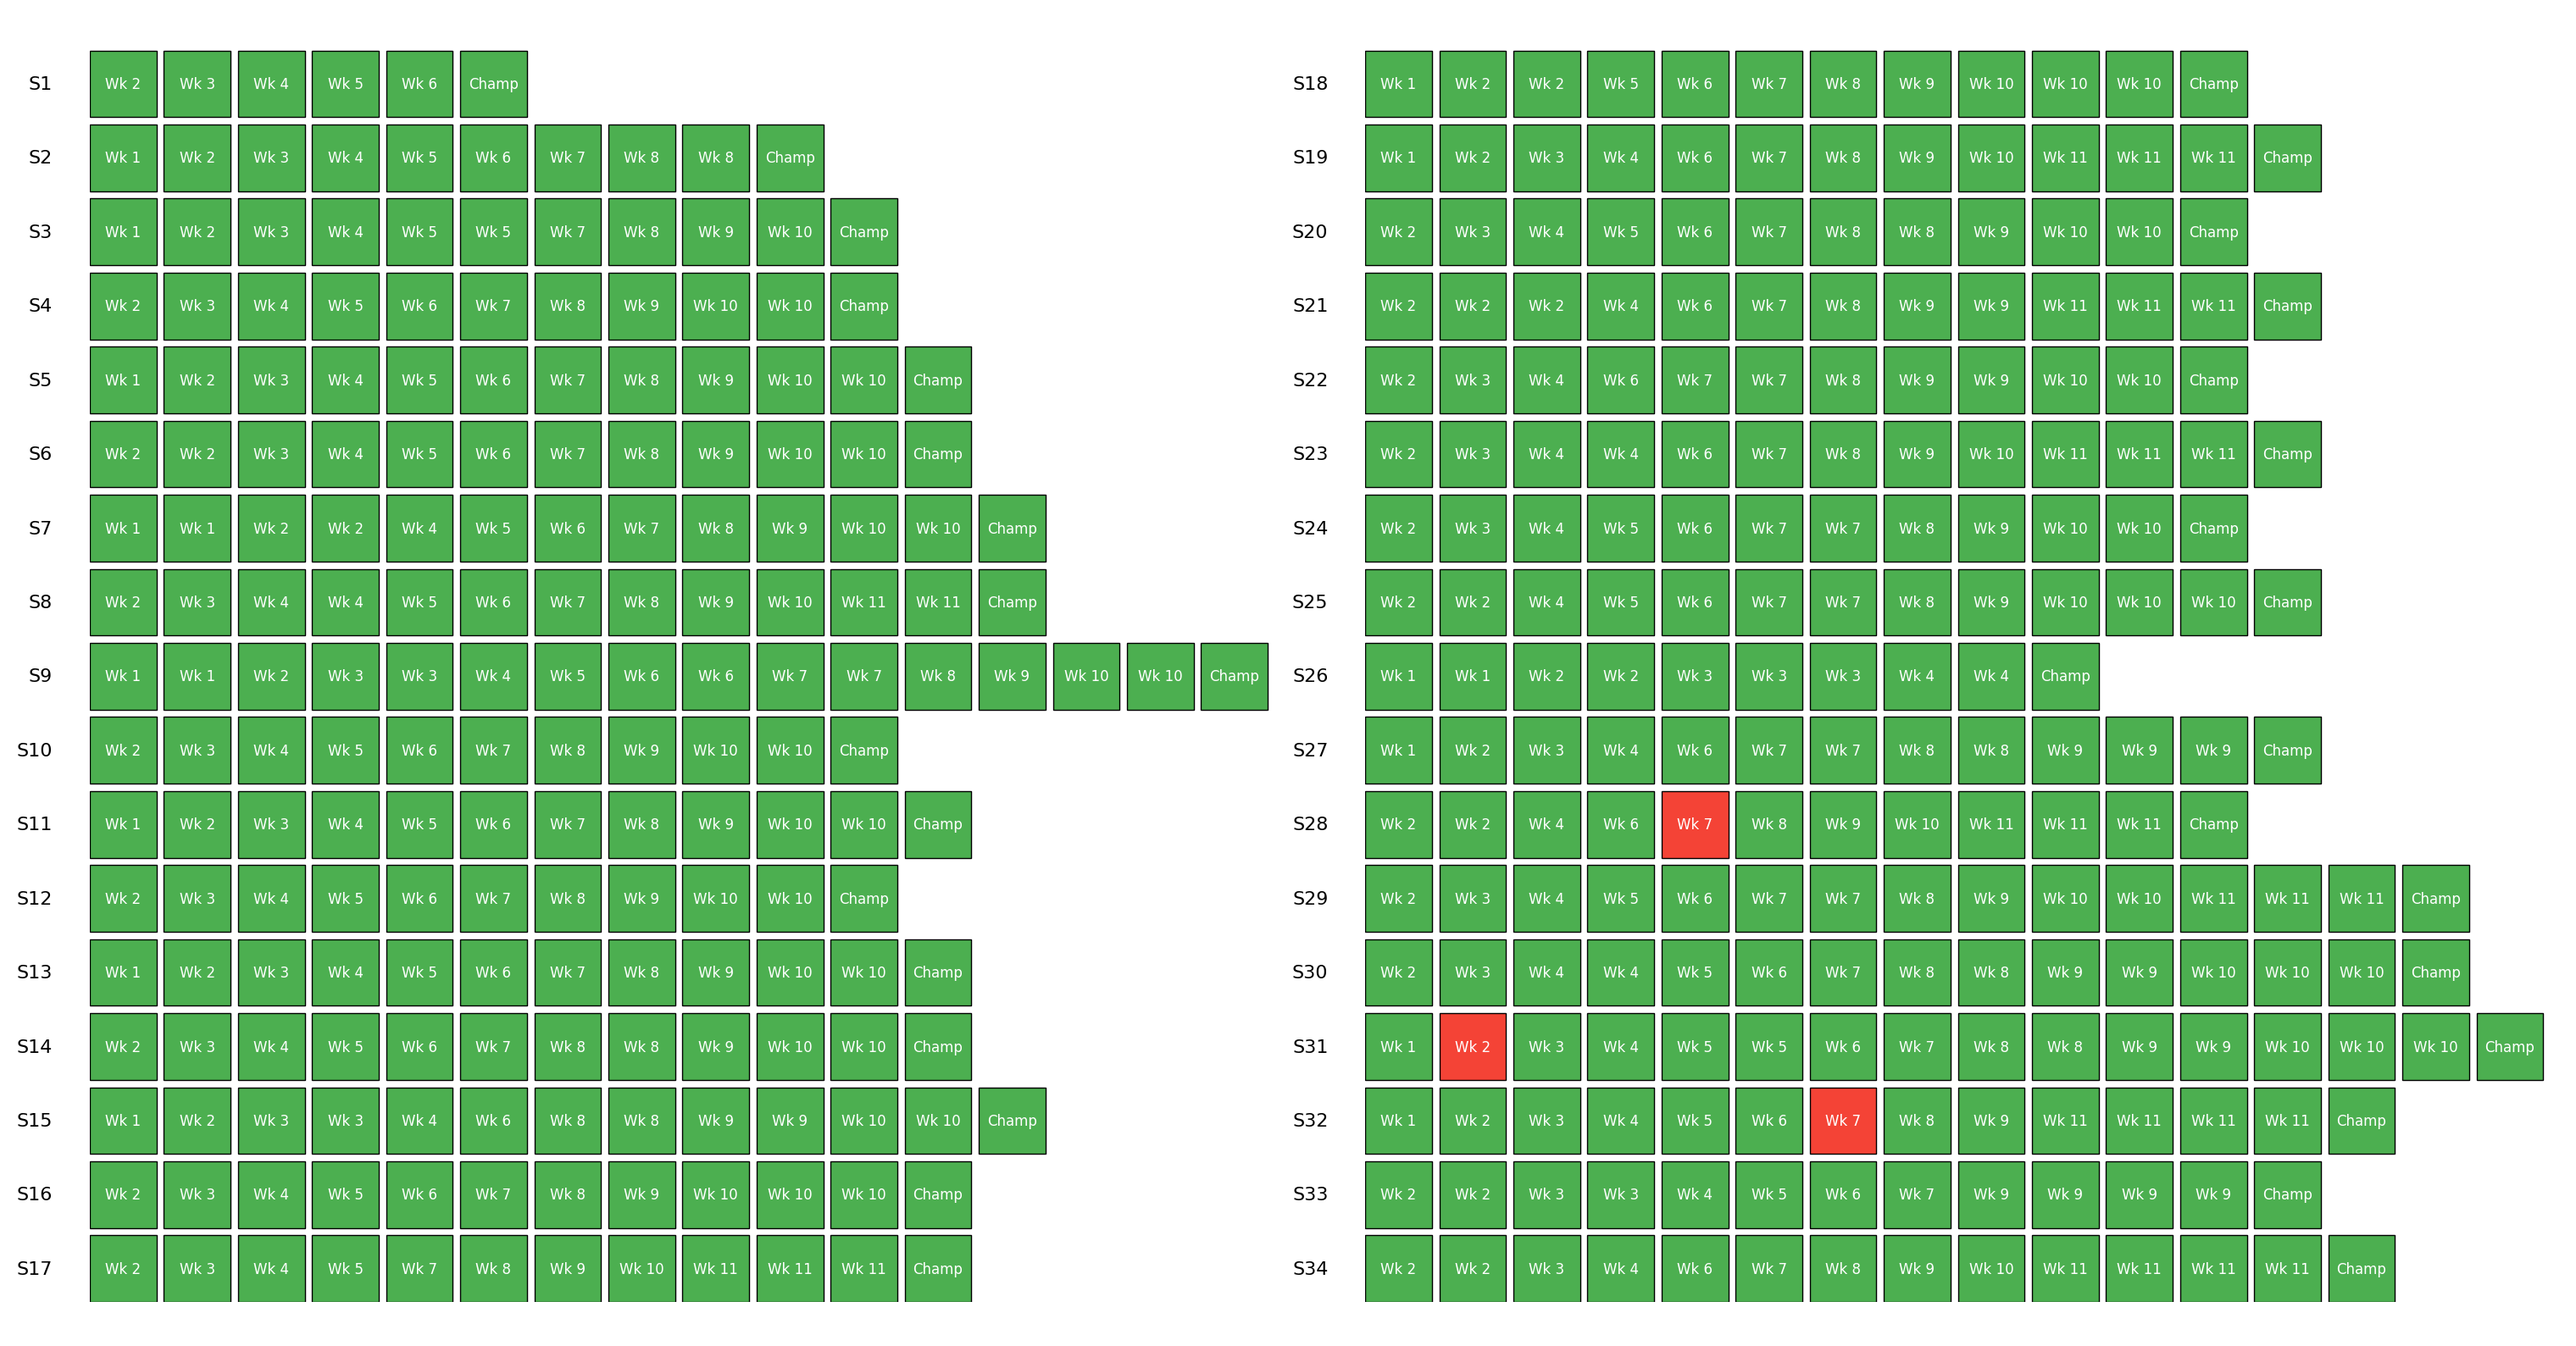
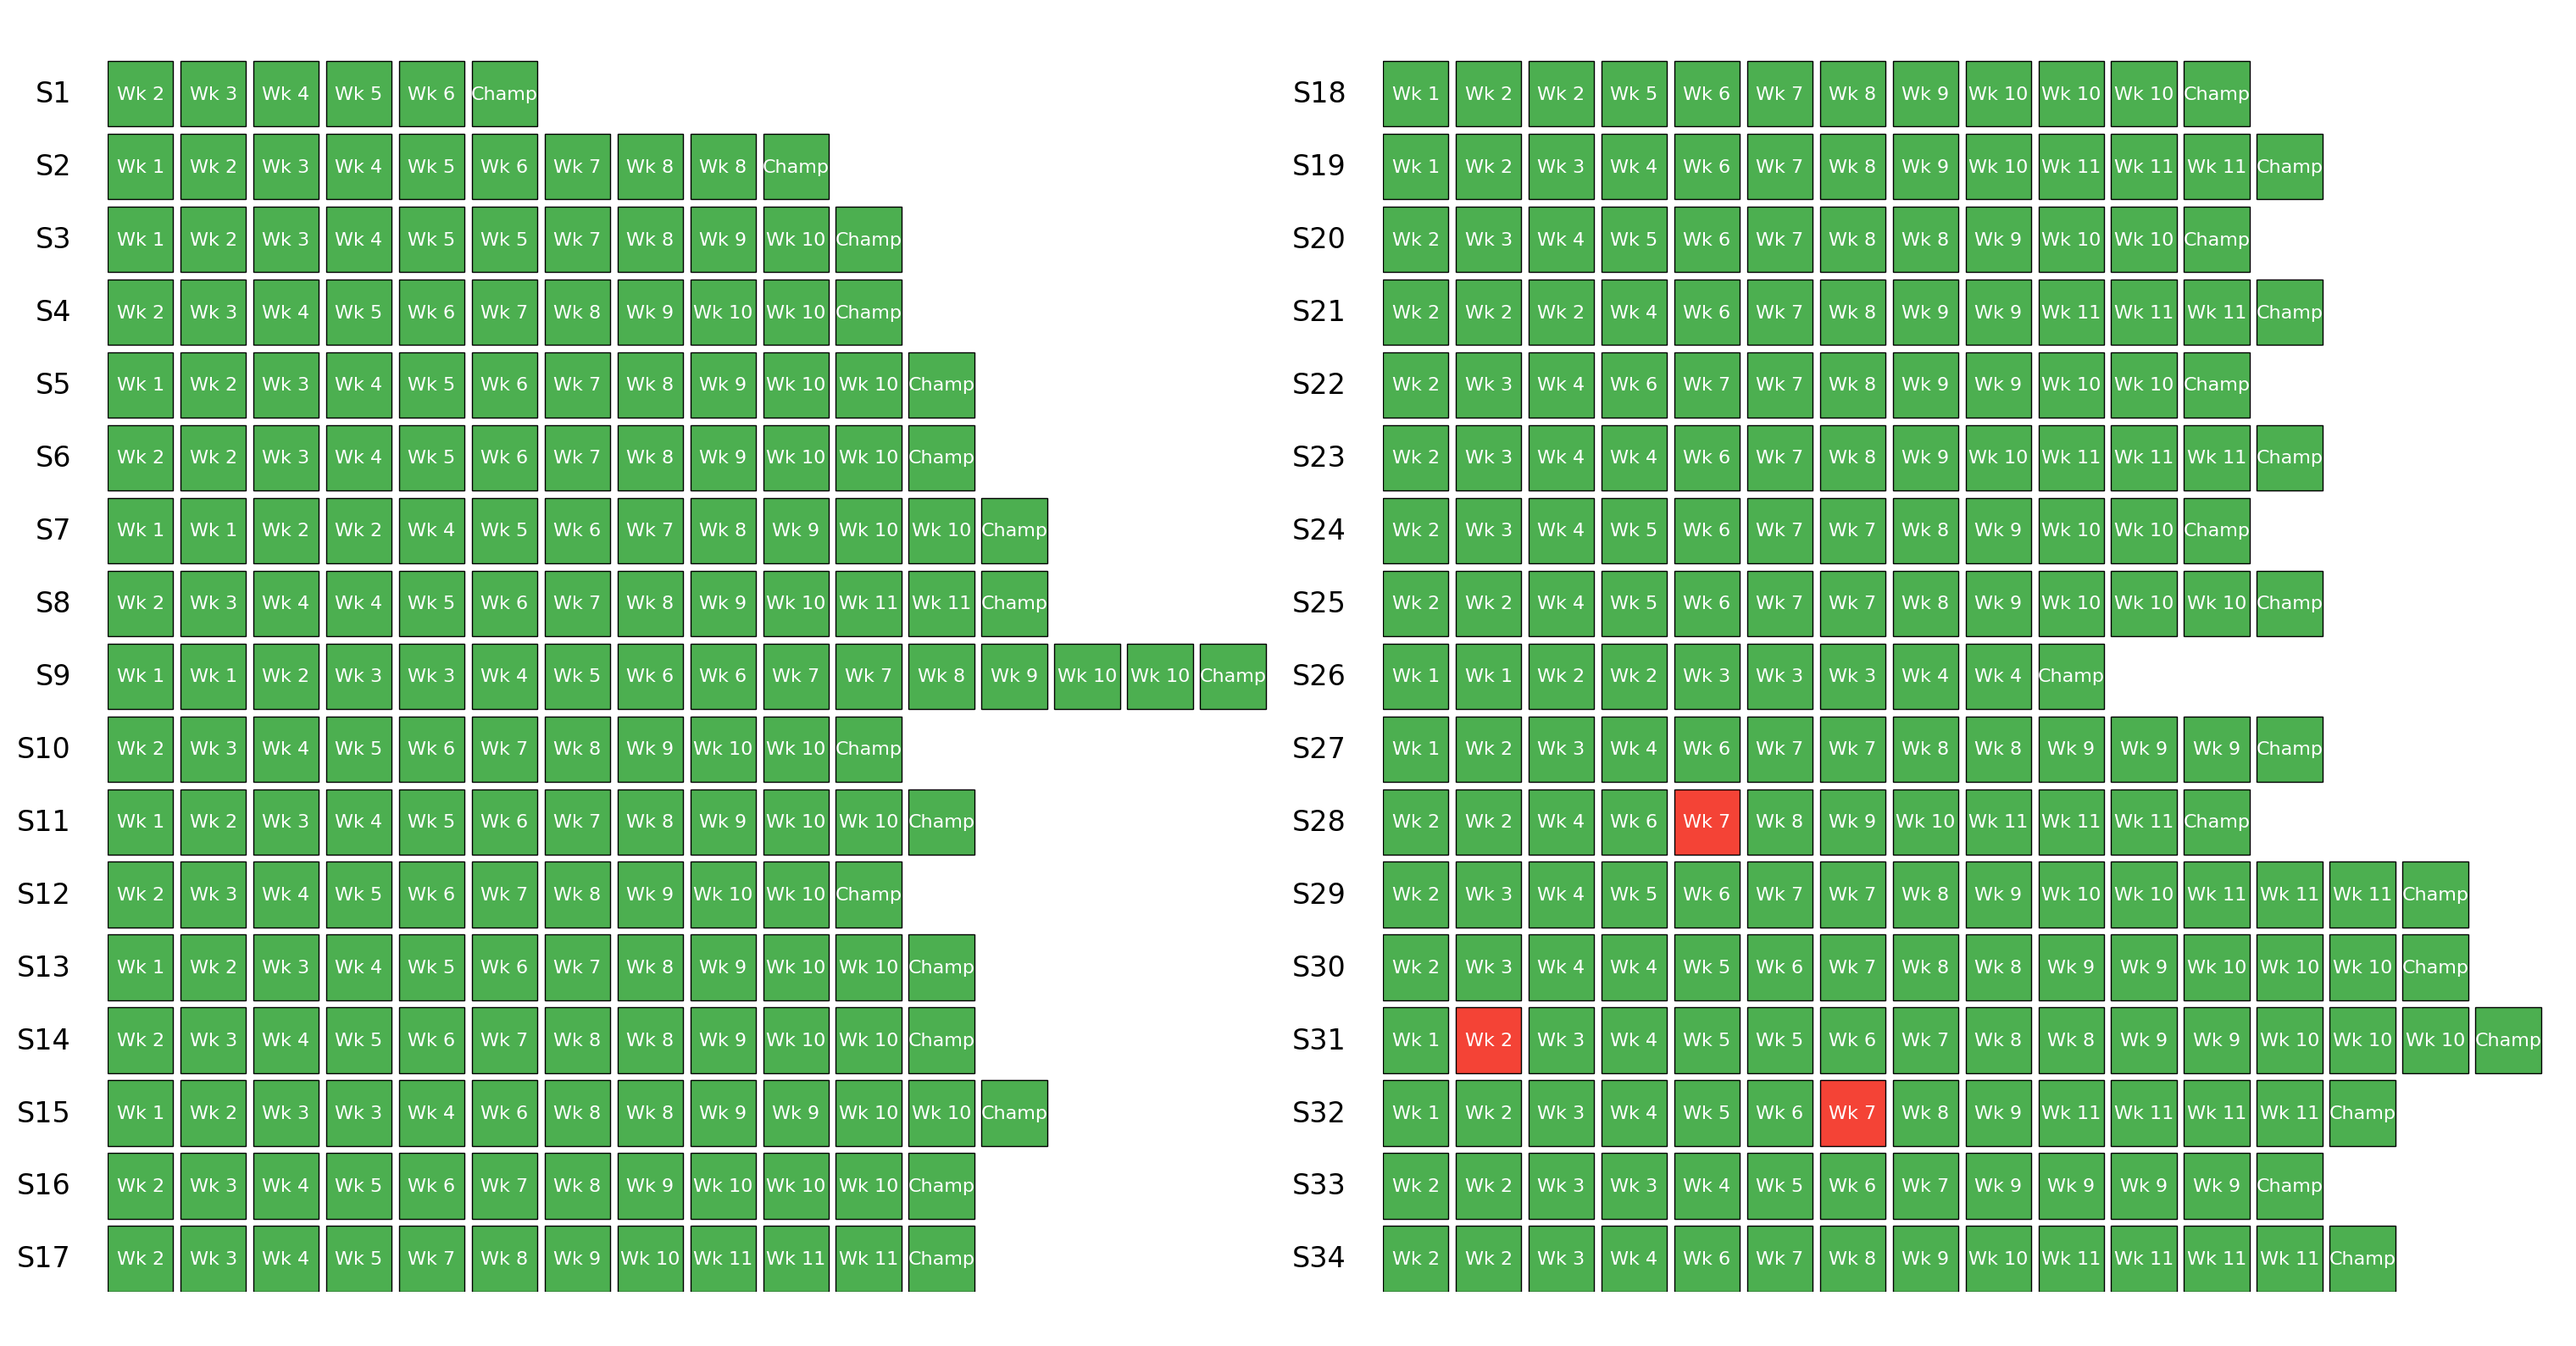
2.2 acc图字体修正

Changed region(s): [[0.0, 0.0308, 1.0, 0.9868]]

diff --git a/train.py b/train.py
@@ -1549,6 +1549,9 @@ def infer(data_path: str, best_path: str, out_dir: str, weeks: int = 11, damp: f
     plot_accuracy_grid_single_column(sq_rv, os.path.join(consistency_out, "rank_vs_pureV.png"))
     plot_accuracy_grid_single_column(sq_pv, os.path.join(consistency_out, "percent_vs_pureV.png"))
     plot_accuracy_grid(sq_ts_vs_r, os.path.join(consistency_out, "rank_twostage_vs_rankpure.png"))
+    # 生成 best_accuracy_grid（使用 best 参数评估后绘制），以统一字体设置
+    eval_best = evaluate_model(model, events, contestants)
+    plot_accuracy_grid(eval_best["per_season_squares"], os.path.join(out_dir, "best_accuracy_grid.png"))
     # 回归与箱线图
     # 已删除不需要的 mean(V)~fans 回归散点与 SD 周度箱线图
     # 名人特征分析（第7节）：基于训练好的 gamma/J_mean 进行回归、分类箱线图与 ANOVA
